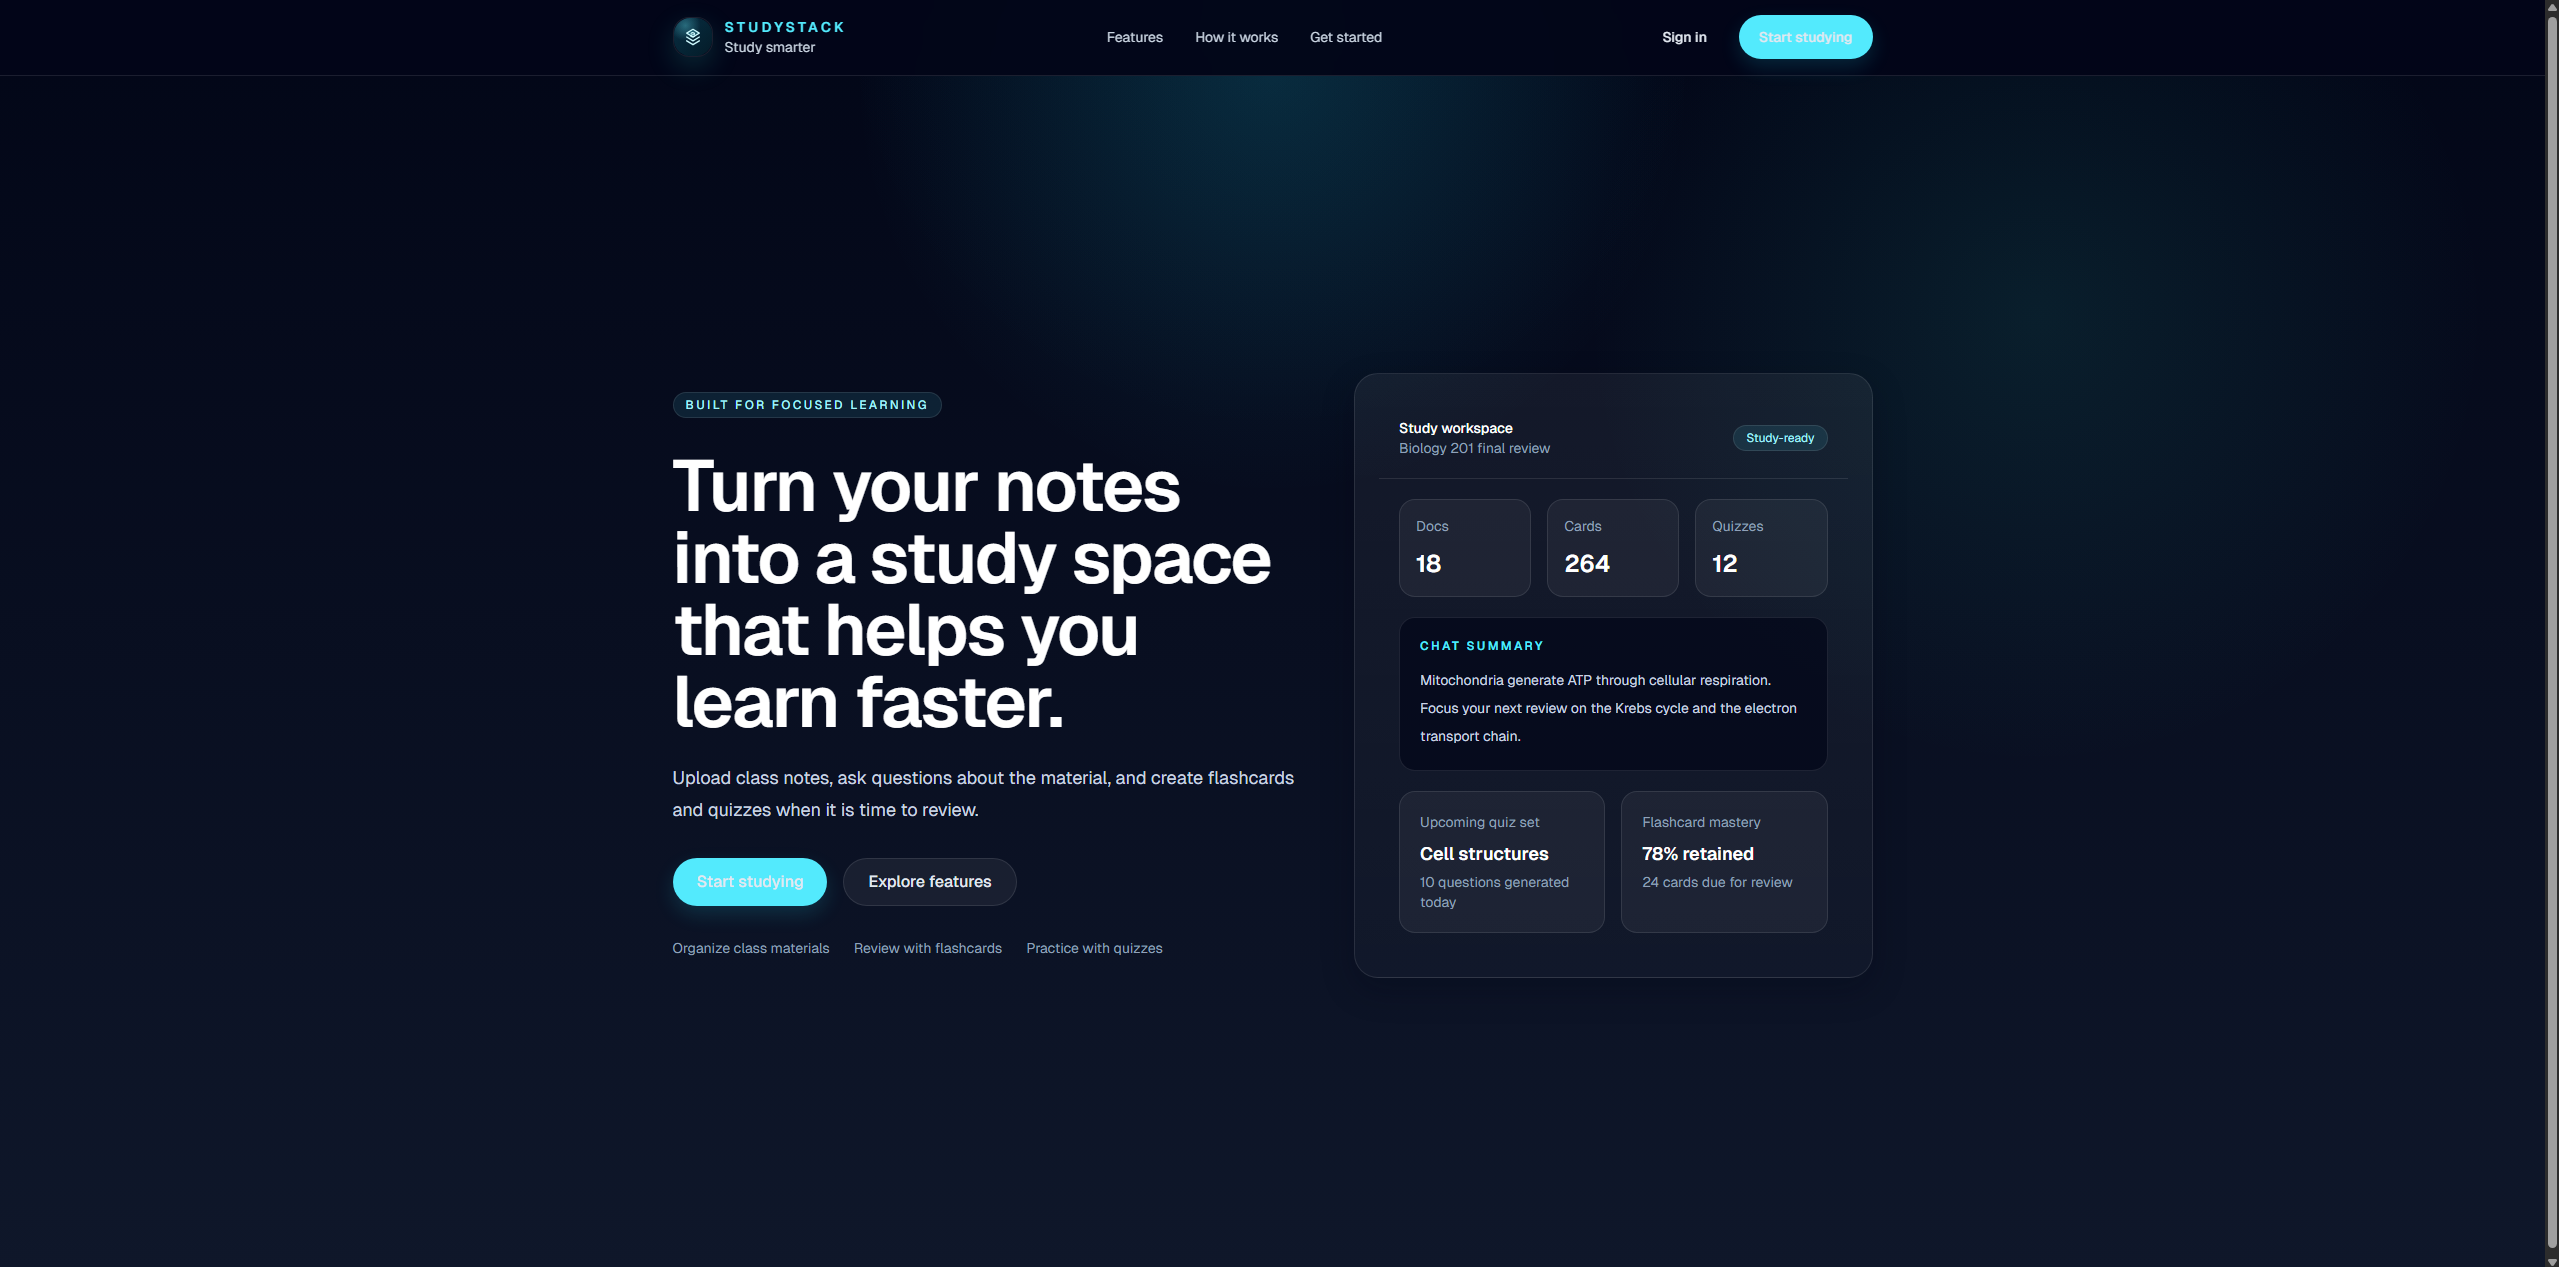
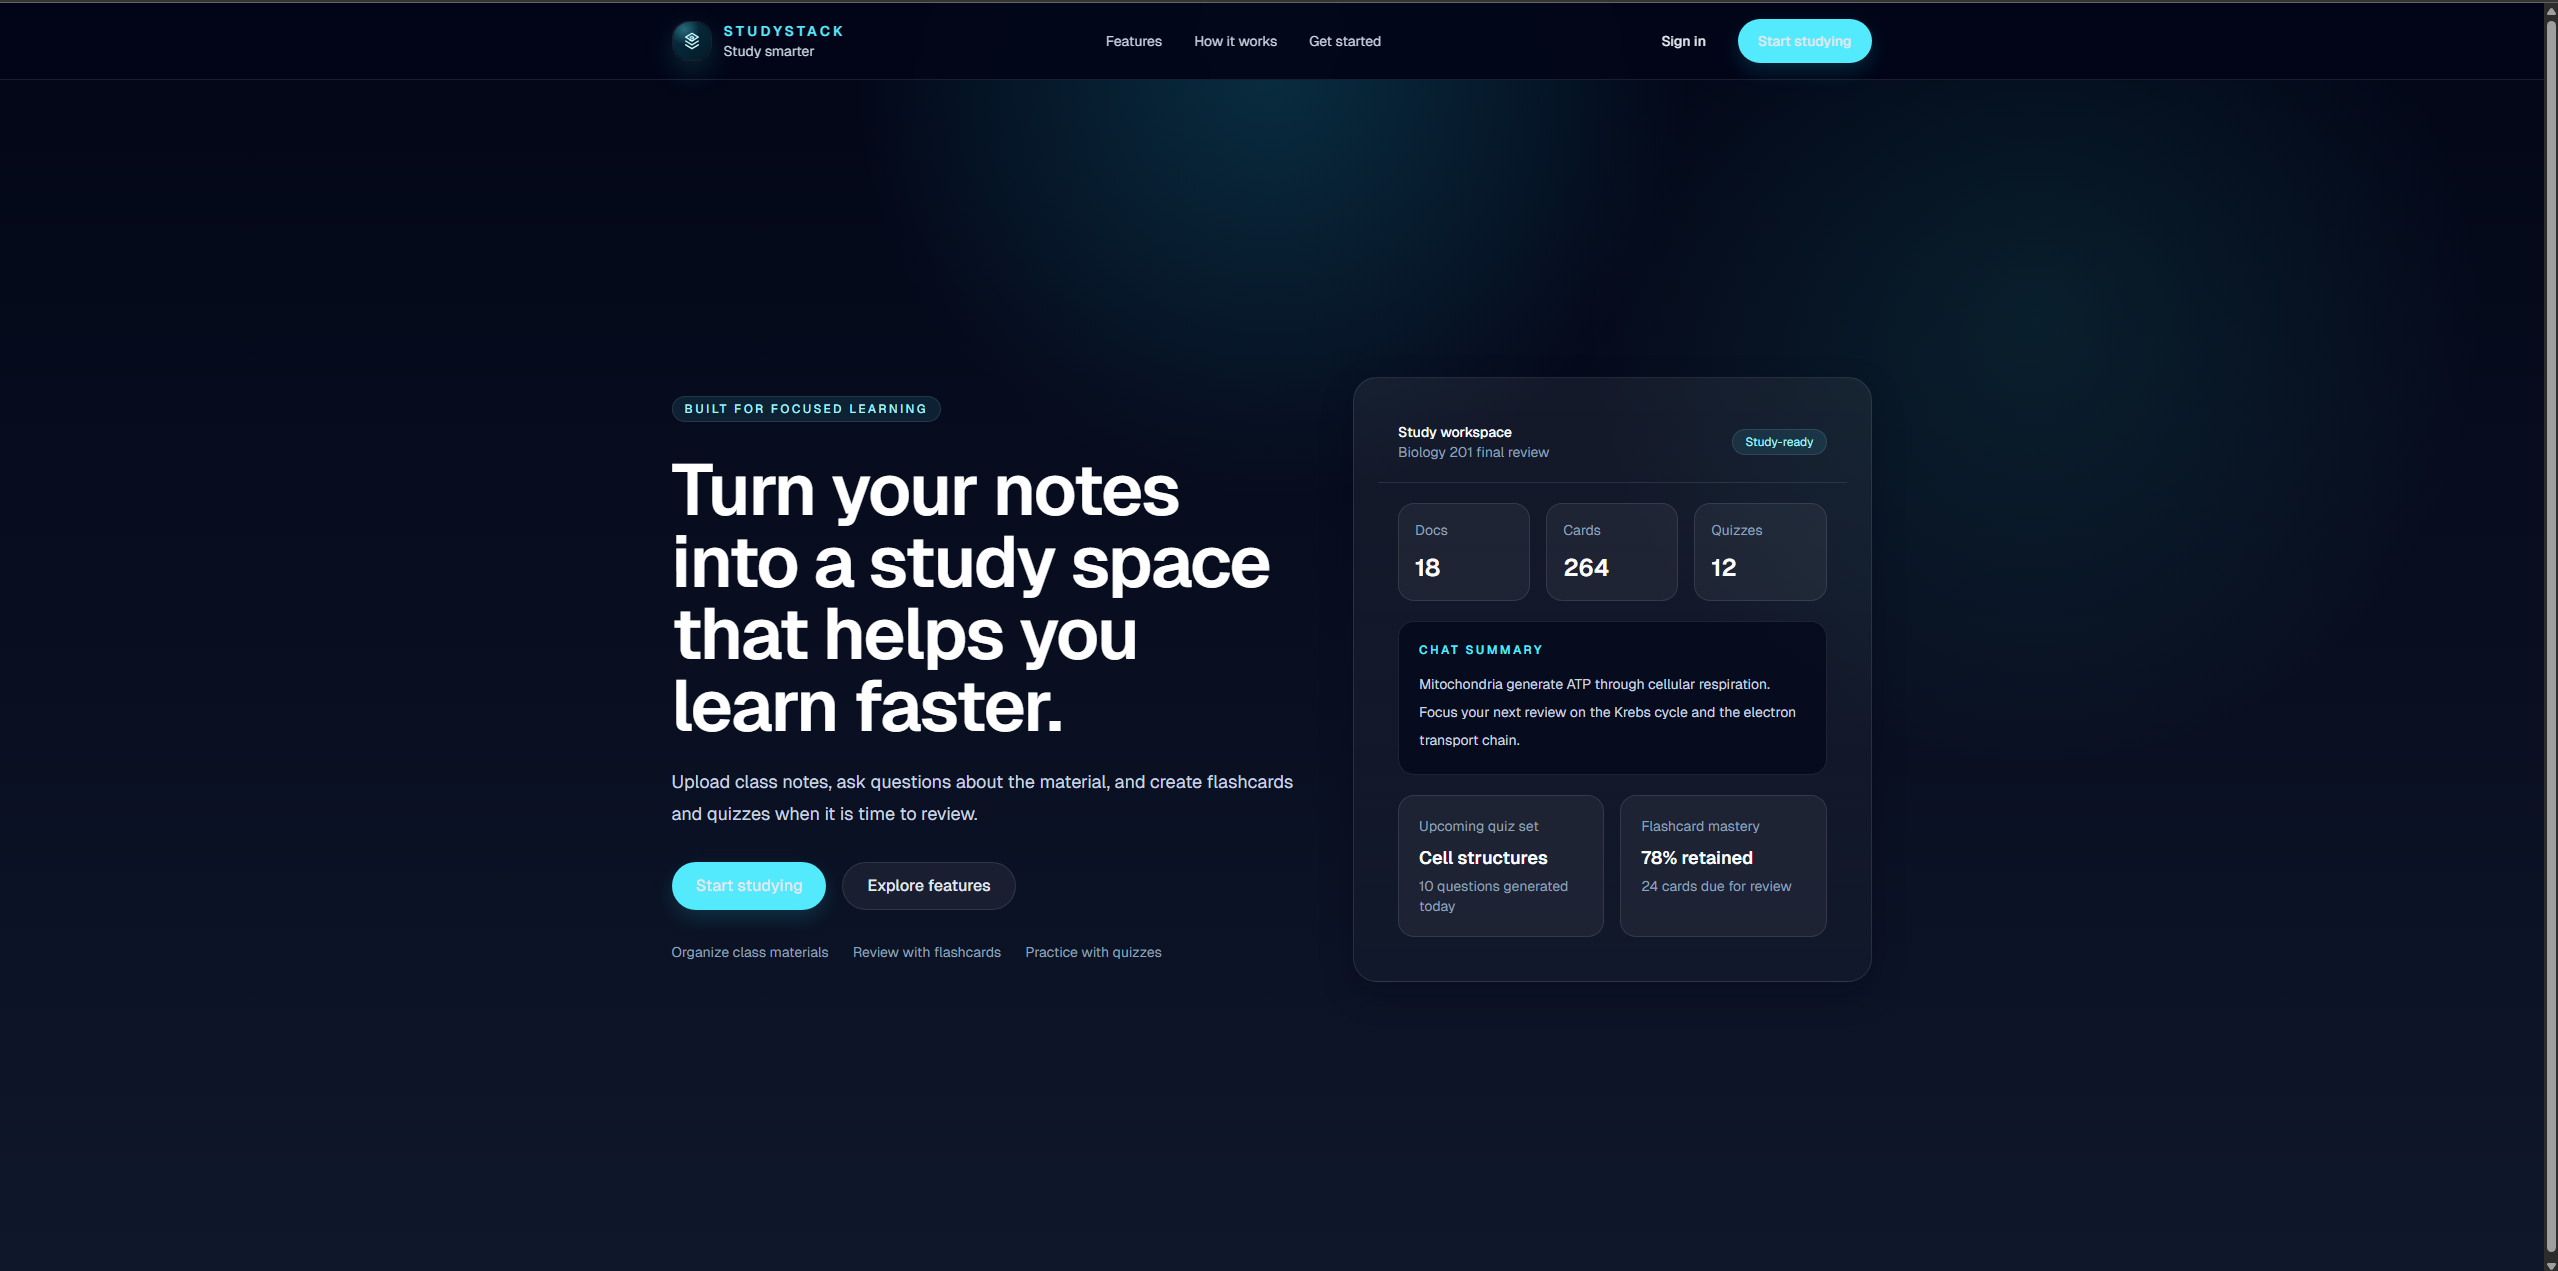
Updated ReadME

diff --git a/README.md b/README.md
@@ -54,7 +54,41 @@ The product is designed around reviewability. Answers and study tools stay conne
 
 ## Product Preview
 
-Updated screenshots can be added here.
+### Landing Page
+
+![StudyStack landing page](/public/readme/landing-page.png)
+
+The landing page introduces the chat-first study workflow and the app's focused student experience.
+
+### Dashboard
+
+![StudyStack dashboard](/public/readme/dashboard.png)
+
+The dashboard acts as a study command center with resume actions, planning, and next-step guidance.
+
+### Study Chat
+
+![StudyStack chat](/public/readme/chat.png)
+
+The chat workspace supports grounded questions over uploaded materials with persistent conversations.
+
+### Documents
+
+![StudyStack documents library](/public/readme/documents.png)
+
+The documents view manages the private source library used for chat, flashcards, and quizzes.
+
+### Flashcards
+
+![StudyStack flashcards study session](/public/readme/flashcards.png)
+
+Flashcard sessions include richer review controls, progress tracking, and a focused study layout.
+
+### Quizzes
+
+![StudyStack quiz study session](/public/readme/quizzes.png)
+
+Quiz sessions provide a more complete test-and-review experience with progress, scoring, and navigation.
 
 ## Getting Started
 
